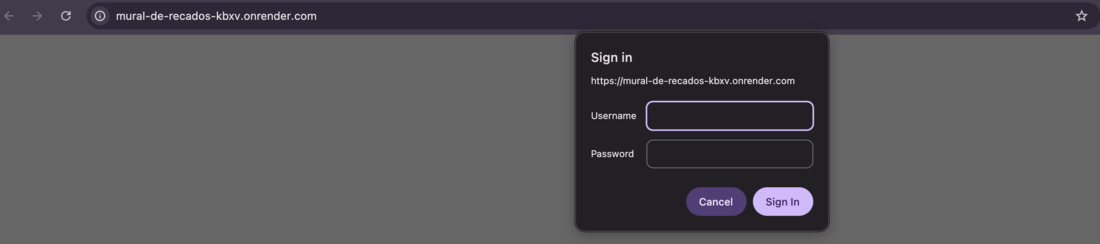
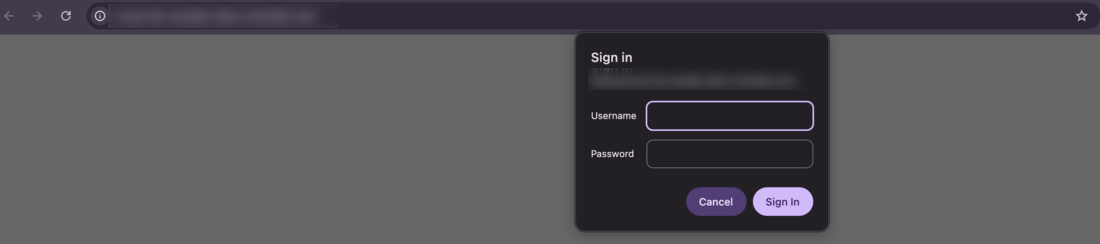
Capítulo 08: print do mural de recados no ar e endereço do app borrado
- Print do primeiro recado no mural de recados no ar, no passo 8
- Borra o endereço do app de teste no Render nos prints da janela da
  palavra-chave e do mural de recados no ar

Claude-Session: https://claude.ai/code/session_014XkFNHmvdCgBGMy8mX6XfN

Changed region(s): [[0.0927, 0.0287, 0.3091, 0.1148], [0.5255, 0.3156, 0.7418, 0.373]]

diff --git a/projetos/mural-de-recados/08-como-mostrar-o-mural-para-o-mundo/mao-na-massa.md b/projetos/mural-de-recados/08-como-mostrar-o-mural-para-o-mundo/mao-na-massa.md
@@ -276,6 +276,9 @@ O navegador abre uma janelinha pedindo um usuário e uma senha. Ela é do navega
 
 Clique em **Novo recado** e poste o primeiro recado do mural de recados no ar. 🎉
 
+![Mural de recados no ar, com o endereço do Render na barra do navegador, o botão Novo recado e um cartão amarelo com o recado "AEEEE! Deu certo!" e os botões Editar e Apagar]({{ '/assets/images/mural-de-recados/08/mural-no-ar.png' | relative_url }})
+{: .ilustracao .ilustracao-larga }
+
 Agora abra o mesmo endereço no seu celular, ou mande para alguém do workshop, junto com a palavra-chave: quem souber a palavra-chave pode abrir e deixar um recado.
 
 <!-- TODO: captura do mural de recados no ar, no celular -->
